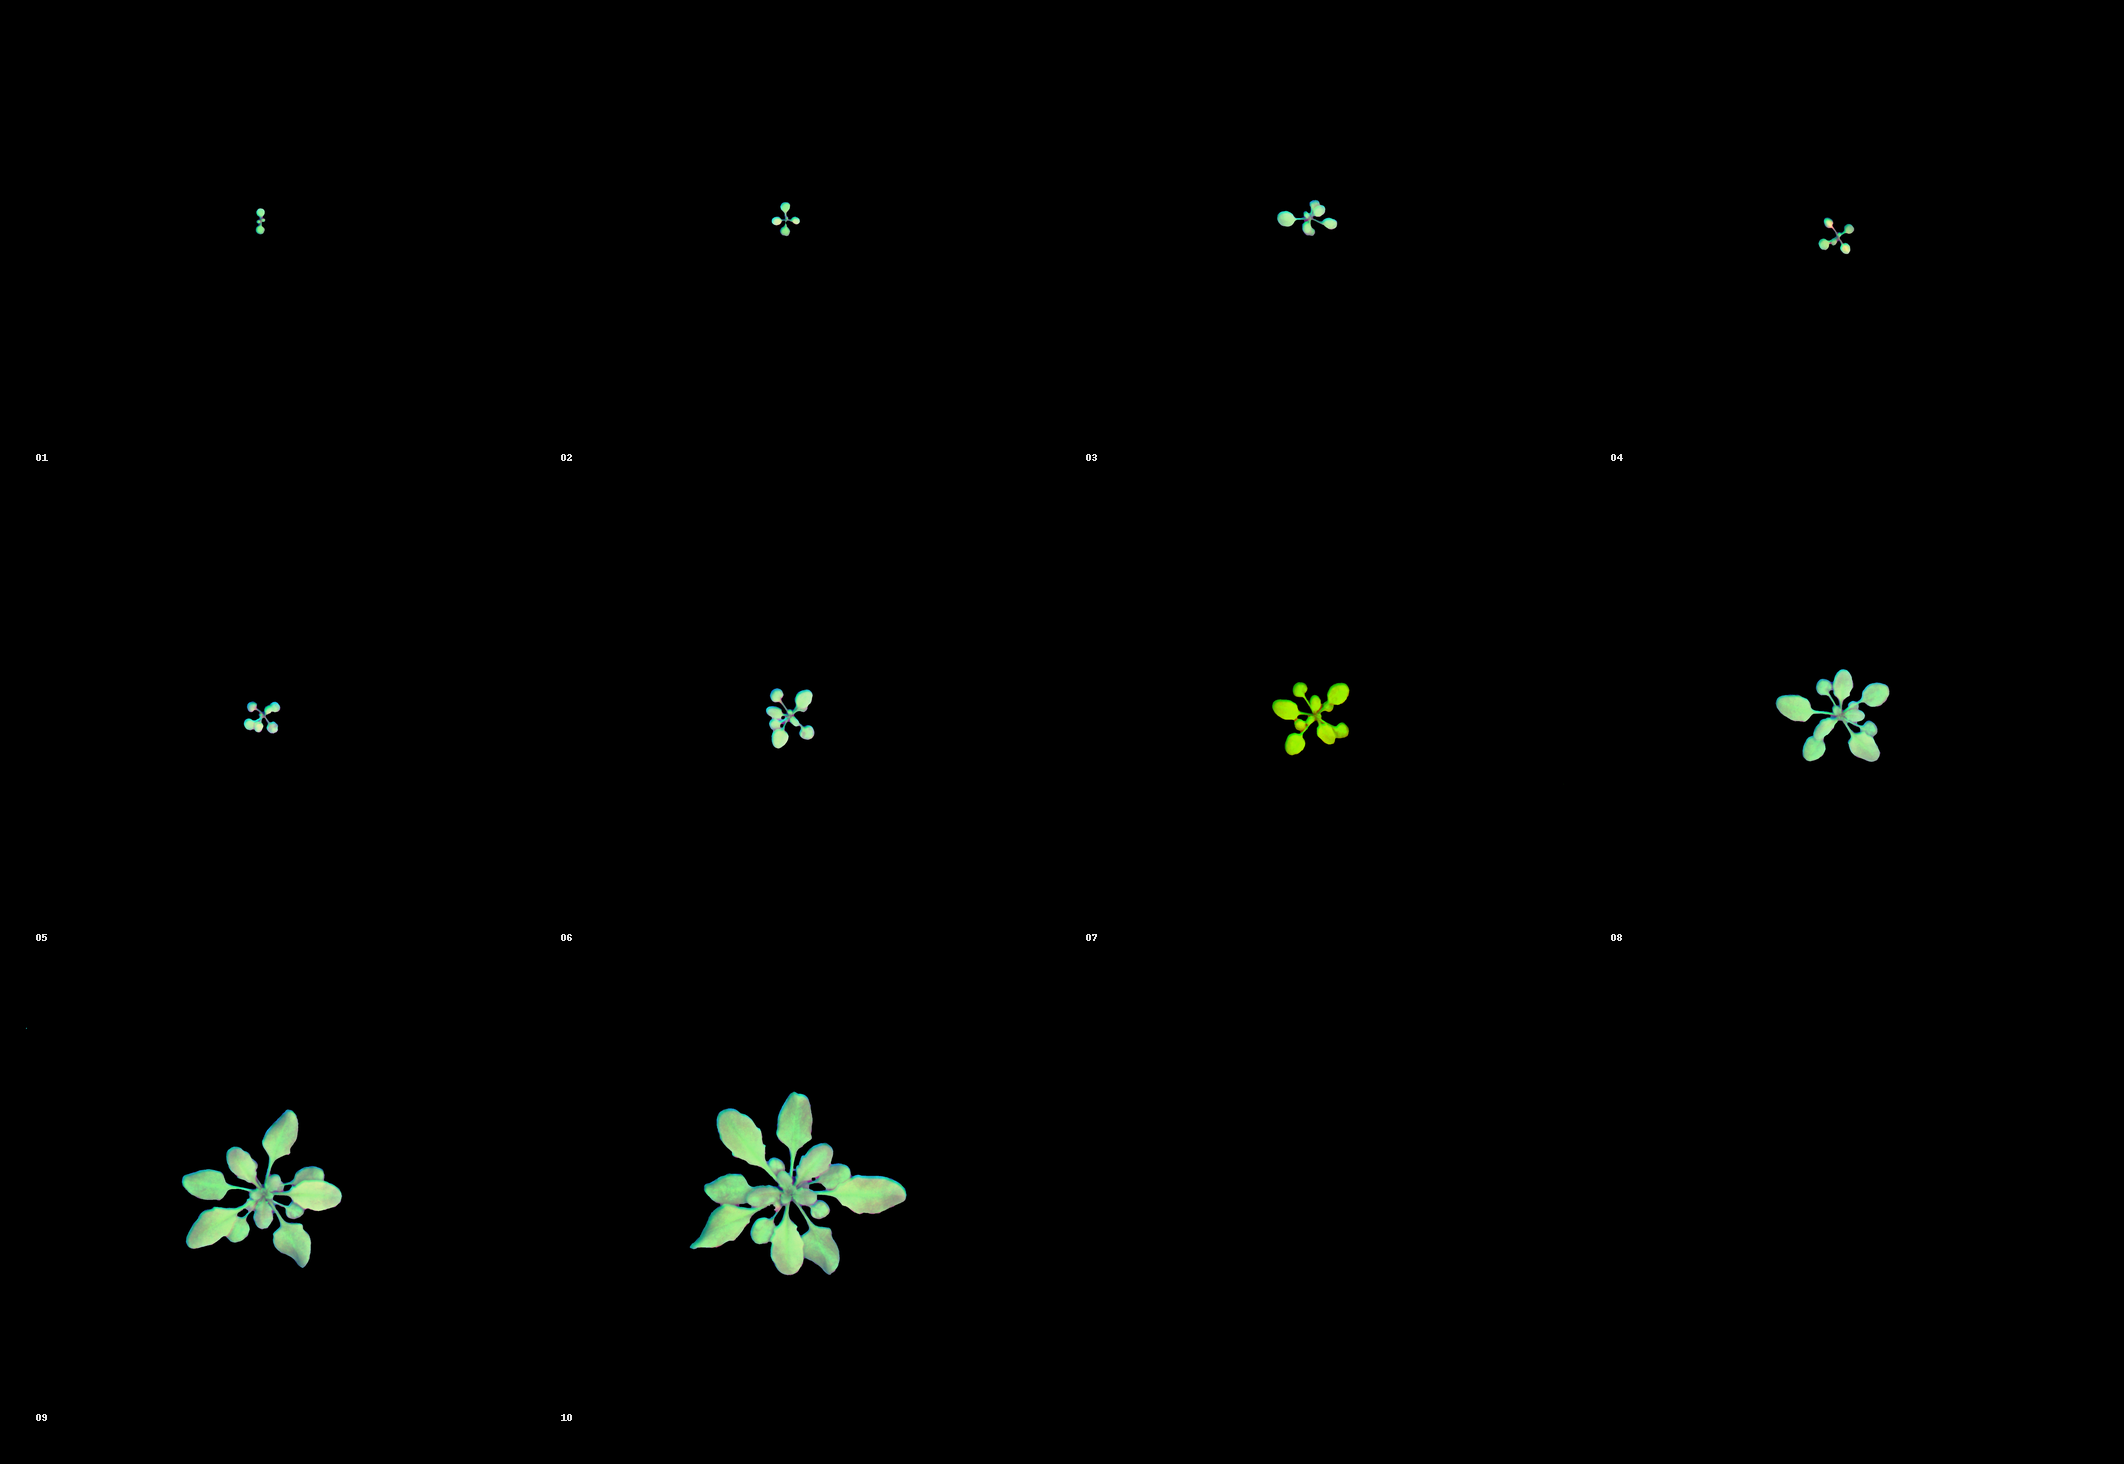
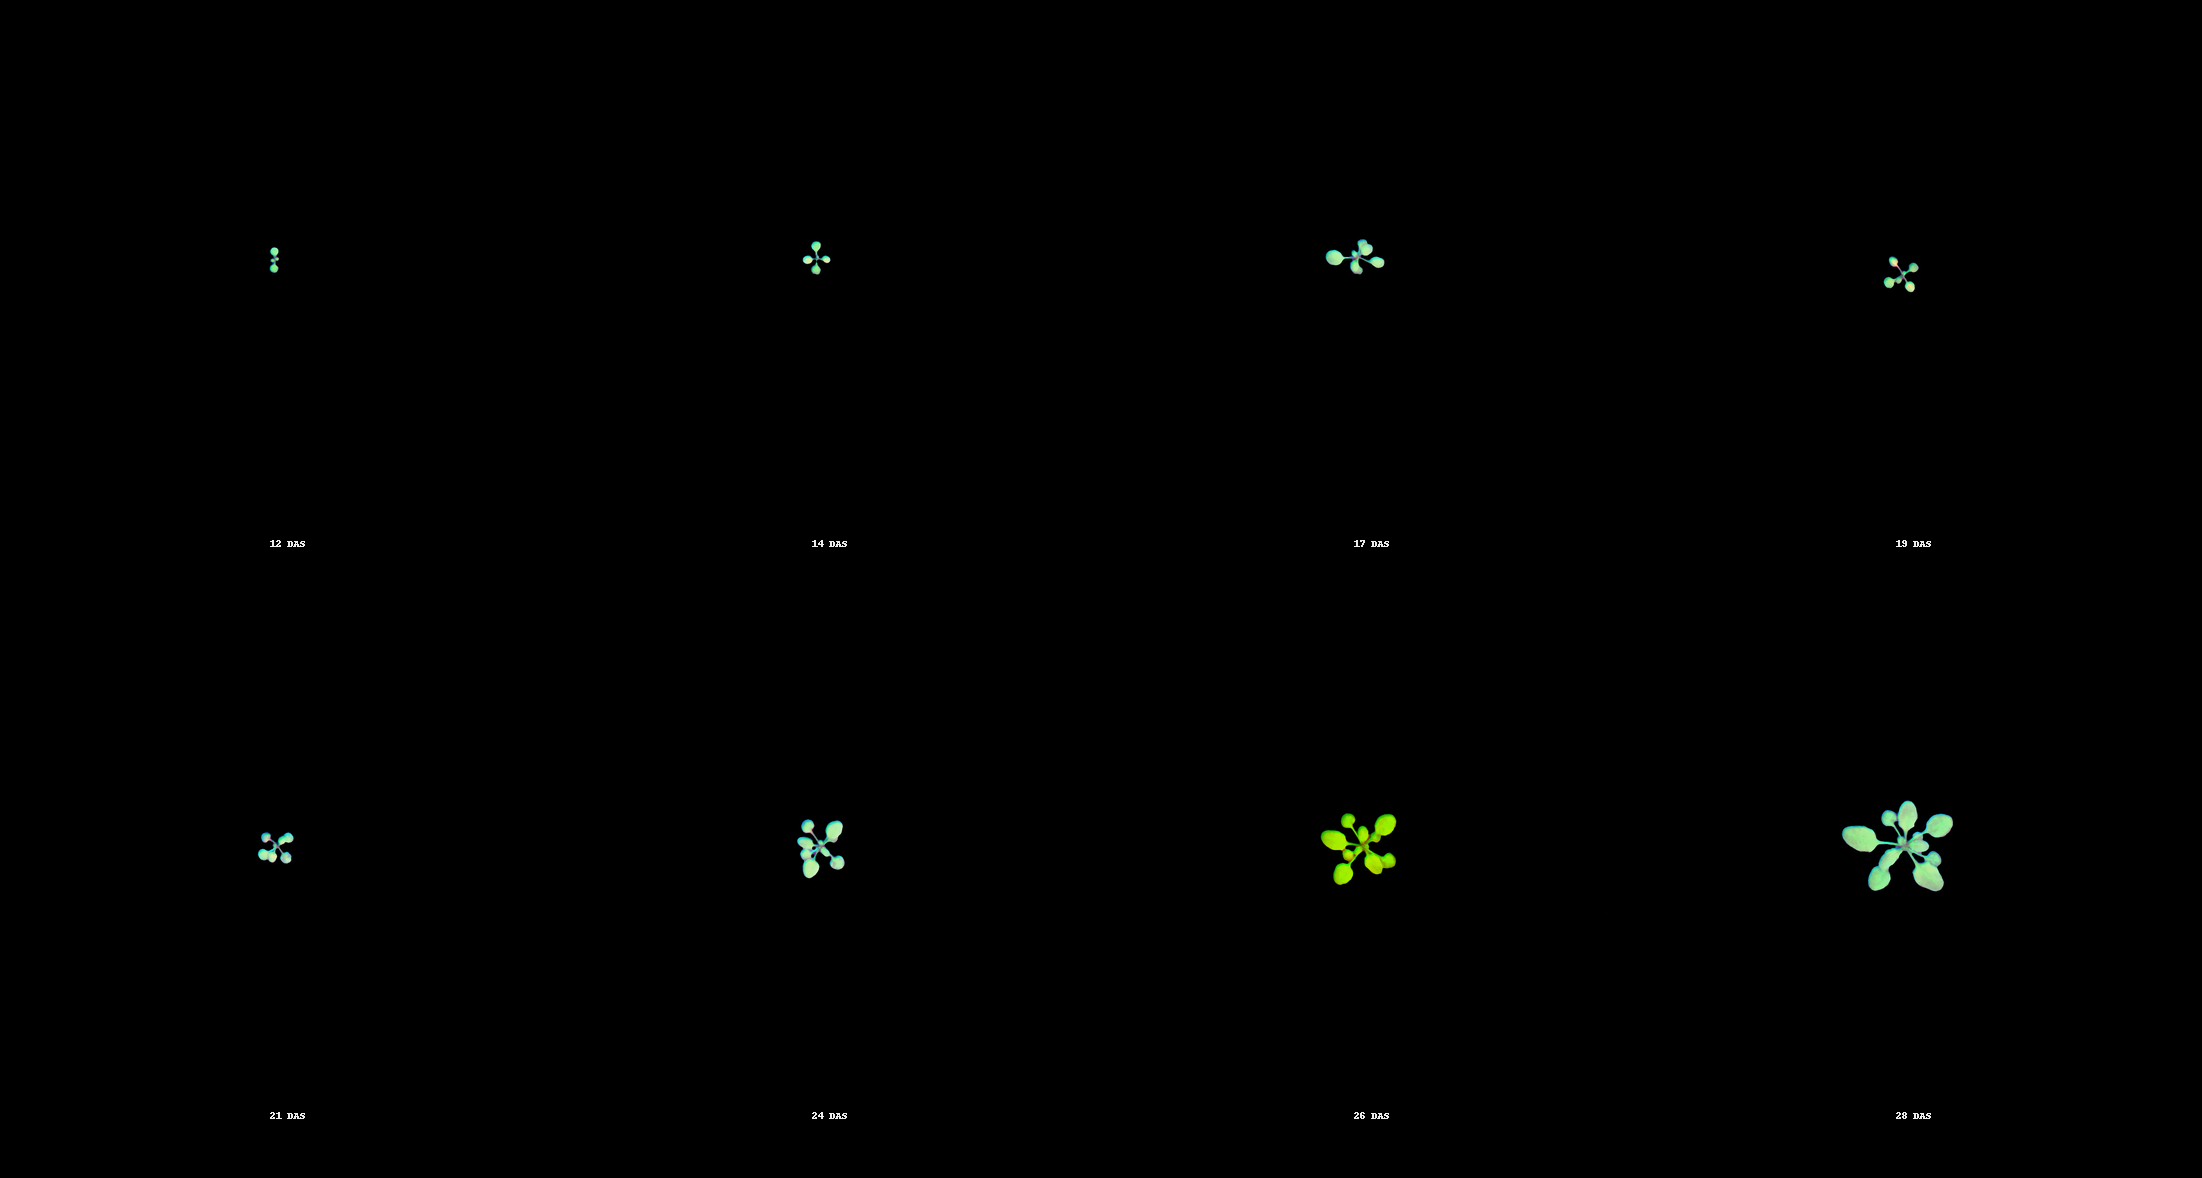
Refine multiscale microscopy showcase and scientific provenance

diff --git a/README.md b/README.md
@@ -1,58 +1,36 @@
 # PlantState4D
 
-### 3D Microscopy · Quantitative Imaging · Plant Morphology
+### From fluorescent signals to plant architecture
 
-*Exploring plant structure and development through scientific imaging.*
+*Multiscale observation of Arabidopsis structure and development through 3D microscopy, quantitative imaging and multispectral phenotyping.*
 
-**Work in progress** · MATLAB · ParaView · Python · 2026
-
----
-
-## Ovule development
-
-**Seven developmental stages | 3D fluorescence microscopy**
-
-Volumetric visualization of tissue architecture and cellular organization.
-
-![Seven stages of ovule development](assets/d02/ovules/panel/D02_ovule_development.png)
-
-### 3D rotations
-
-<table>
-  <tr>
-    <td align="center"><b>Stage 2-IV</b><br><img src="assets/d02/ovules/gif/01_Ovule_2-IV.gif" width="220"></td>
-    <td align="center"><b>Stage 2-V</b><br><img src="assets/d02/ovules/gif/02_Ovule_2-V.gif" width="220"></td>
-    <td align="center"><b>Stage 3-I</b><br><img src="assets/d02/ovules/gif/03_Ovule_3-I.gif" width="220"></td>
-    <td align="center"><b>Stage 3-II</b><br><img src="assets/d02/ovules/gif/04_Ovule_3-II.gif" width="220"></td>
-  </tr>
-  <tr>
-    <td align="center"><b>Stage 3-III</b><br><img src="assets/d02/ovules/gif/05_Ovule_3-III.gif" width="220"></td>
-    <td align="center"><b>Stage 3-IV</b><br><img src="assets/d02/ovules/gif/06_Ovule_3-IV.gif" width="220"></td>
-    <td align="center"><b>Stage 3-V</b><br><img src="assets/d02/ovules/gif/07_Ovule_3-V.gif" width="220"></td>
-    <td></td>
-  </tr>
-</table>
+**Work in progress** · MATLAB · Python · 2026
 
 ---
 
-## Root architecture
+**Observation → Reconstruction → Quantitative characterization → Biological interpretation**
 
-**3D fluorescence microscopy**
+Fluorescence microscopy and multispectral imaging provide complementary views of plant organization, from cellular structures and developing tissues to whole-plant morphology.
 
-A representative root volume rendered as a rotating 3D reconstruction.
+The visualizations emphasize what is experimentally observed, how image-derived representations are constructed, and which biological questions they can support.
 
-<p align="center">
-  <img src="assets/d02/root/gif/01_Root_Movie1_t00003.gif" width="520">
-</p>
+## 01 · Fluorescent signals and cellular organization
 
----
+### Floral meristem · Membrane and auxin-response reporters
 
+***Arabidopsis thaliana*** · Confocal fluorescence microscopy · 3D volumes
 
-## Floral meristem development
+Two fluorescent reporters provide distinct biological observables.
 
-**3D fluorescence microscopy | Arabidopsis**
+**PM · `pUBQ10::acyl:TDT`** — membrane-associated fluorescence for observing cellular and tissue organization.
+
+**DR5 · `DR5v2::n3eGFP`** — nuclear reporter of auxin-responsive transcriptional activity.
 
 ### Membrane-associated fluorescence
+
+**Three observations · T1–T3**
+
+3D renderings reveal the spatial organization of the imaged floral tissues.
 
 <table>
 <tr>
@@ -62,12 +40,12 @@ A representative root volume rendered as a rotating 3D reconstruction.
 </tr>
 </table>
 
-### Membrane and auxin-response reporters
+### Complementary fluorescence signals
 
-**T1 | PM + DR5**
+**T1 · PM + DR5**
 
 <p align="center">
-<img src="assets/d03/flower/gif/01_D03_T1_PM_DR5_overlay.gif" width="650" alt="3D exploratory overlay of PM and DR5 fluorescence">
+<img src="assets/d03/flower/gif/01_D03_T1_PM_DR5_overlay.gif" width="650" alt="Exploratory PM and DR5 fluorescence rendering">
 </p>
 
 <p align="center">
@@ -75,17 +53,66 @@ A representative root volume rendered as a rotating 3D reconstruction.
 <strong>DR5</strong> · Auxin-response reporter
 </p>
 
-*Exploratory overlay; spatial registration has not been validated. DR5 reports auxin response, not absolute auxin concentration.*
+*Exploratory dual-channel visualization. Spatial registration remains provisional; apparent signal proximity does not establish colocalization. DR5 does not directly measure auxin concentration.*
 
 ---
 
-## Leaf morphology · 3D confocal microscopy
+## 02 · Cellular architecture and developing organs
 
-**Three representative leaf volumes | PM-YFP fluorescence**
+### Ovule development
 
-![D04 leaf comparison](assets/d04/leaf/panel/D04_leaf_triptych.png)
+***Arabidopsis thaliana*** · Volumetric fluorescence microscopy · Seven annotated developmental stages
 
-### 3D rotations
+3D observations illustrate the architecture of developing ovules, including tissue boundaries and changing morphological organization.
+
+![Seven stages of ovule development](assets/d02/ovules/panel/D02_ovule_development.png)
+
+### Three-dimensional observations
+
+<table>
+<tr>
+<td align="center"><b>Stage 2-IV</b><br><img src="assets/d02/ovules/gif/01_Ovule_2-IV.gif" width="220"></td>
+<td align="center"><b>Stage 2-V</b><br><img src="assets/d02/ovules/gif/02_Ovule_2-V.gif" width="220"></td>
+<td align="center"><b>Stage 3-I</b><br><img src="assets/d02/ovules/gif/03_Ovule_3-I.gif" width="220"></td>
+<td align="center"><b>Stage 3-II</b><br><img src="assets/d02/ovules/gif/04_Ovule_3-II.gif" width="220"></td>
+</tr>
+<tr>
+<td align="center"><b>Stage 3-III</b><br><img src="assets/d02/ovules/gif/05_Ovule_3-III.gif" width="220"></td>
+<td align="center"><b>Stage 3-IV</b><br><img src="assets/d02/ovules/gif/06_Ovule_3-IV.gif" width="220"></td>
+<td align="center"><b>Stage 3-V</b><br><img src="assets/d02/ovules/gif/07_Ovule_3-V.gif" width="220"></td>
+<td></td>
+</tr>
+</table>
+
+*Developmental labels refer to the original morphological stage annotations. The animations show changes in viewpoint, not elapsed biological time.*
+
+### Root tissue architecture
+
+**3D fluorescence imaging · Spatial tissue organization**
+
+A selected root volume illustrates cellular and tissue-level architecture in three dimensions.
+
+<p align="center">
+<img src="assets/d02/root/gif/01_Root_Movie1_t00003.gif" width="520" alt="3D root fluorescence volume">
+</p>
+
+*The animation rotates a selected volume; it does not represent a time-lapse.*
+
+---
+
+## 03 · Leaf morphology and tissue geometry
+
+### Leaf epidermis · PM-YFP fluorescence
+
+***Arabidopsis thaliana*** · 3D confocal microscopy · Three representative volumes
+
+Membrane-associated fluorescence reveals aspects of tissue geometry and cellular organization.
+
+The selected volumes illustrate differences in apparent leaf size and morphology, providing a starting point for quantitative characterization of cellular geometry and organ shape.
+
+![Three representative leaf volumes](assets/d04/leaf/panel/D04_leaf_triptych.png)
+
+### Three-dimensional observations
 
 <p align="center"><strong>Small leaf</strong></p>
 <p align="center">
@@ -102,41 +129,74 @@ A representative root volume rendered as a rotating 3D reconstruction.
 <img src="assets/d04/leaf/gif/03_Leaf_Large.gif" width="750" alt="Large leaf 3D rotation">
 </p>
 
-*Individual volumetric visualizations; size labels describe the selected examples, not a validated developmental sequence.*
+*The size labels describe representative samples, not a validated longitudinal growth sequence.*
 
 ---
 
-## Multispectral sensor fusion
+## 04 · Whole-plant phenotyping and multispectral imaging
 
-**Arabidopsis · VIS / NIR / FLUO · Image-based plant phenotyping**
+### Arabidopsis · RGB(VIS), NIR and FLUO
 
-### Multispectral imaging modalities
+**IPK Gatersleben** · LemnaTec phenotyping platform · Top-view acquisition
 
-Visible, near-infrared and fluorescence observations acquired from the same plant imaging workflow.
+Three complementary imaging modalities provide distinct optical observations of plant structure and digital signal responses.
 
-![Multispectral imaging channels](assets/d01/multispectral/02_reference_modalities.png)
+**RGB(VIS)** · Visible imaging with red, green and blue channels.
 
-### Segmentation and sensor fusion
+**NIR** · Near-infrared imaging.
+
+**FLUO** · Fluorescence imaging.
+
+### Multispectral acquisition
+
+Representative observations demonstrate the complementary information available from the three imaging modalities.
+
+![Multispectral imaging modalities](assets/d01/multispectral/02_reference_modalities.png)
+
+### Image registration, segmentation and fusion
 
 **FLUO → Red · VIS → Green · NIR → Blue**
 
-![Segmentation and multispectral fusion](assets/d01/multispectral/03_reference_segmentation_fusion.png)
+Geometric registration and plant segmentation support a common visual representation of the processed multimodal observations.
+
+![Multispectral segmentation and fusion](assets/d01/multispectral/03_reference_segmentation_fusion.png)
 
 ### Digital signal distribution
 
-Channel-level digital intensity distributions across seven VIS, NIR and FLUO channels.
+**VIS-R/G/B · NIR · FLUO-R/G/B**
 
-![Digital intensity distributions of seven multispectral channels](assets/d01/multispectral/04_reference_channel_responses.png)
-### Vegetative-stage examples
+Digital intensity distributions illustrate the responses of the seven channels used for exploratory characterization.
 
-Selected vegetative Arabidopsis observations shown directly from the processed multispectral fusion outputs.
+![Digital channel distributions](assets/d01/multispectral/04_reference_channel_responses.png)
 
-![Vegetative gallery](assets/d01/multispectral/00_vegetative_gallery.png)
+### Early rosette observations · 12–28 DAS
+
+**Eight acquisitions · One plant · Three imaging modalities**
+
+Repeated top-view observations of plant `1135FA1125` illustrate changes in projected morphology over time.
+
+The labels indicate **days after sowing (DAS)**, recovered directly from the original experimental metadata.
+
+![Multispectral plant observations at 12 to 28 DAS](assets/d01/multispectral/00_vegetative_gallery.png)
+
+*The fused colors are a visualization convention, not physical spectral colors. Digital intensities are not calibrated radiance; projected morphology does not directly measure biomass. Phenological classification of the selected images remains subject to visual verification.*
 
 ---
 
-### Technical focus
+## From images to quantitative plant biology
 
-**Volumetric microscopy · Image processing · 3D rendering · fluorescence visualization · cellular morphology**
+**Geometry · Fluorescent signaling · Morphogenesis · Temporal observation**
 
-*Additional plant structures and multispectral imaging demonstrations are currently in development.*
+Across cellular, tissue, organ and whole-plant scales, these datasets illustrate complementary experimental observables.
+
+Their quantitative potential lies in connecting image-derived measurements with explicit biological questions: changes in cell and tissue geometry, spatial organization, organ morphology and plant development.
+
+Understanding relationships with mechanical stress, material properties or biochemical regulation requires additional measurements, modeling and experimental validation.
+
+The four demonstrations originate from independent datasets and do not constitute a single continuous multiscale experiment.
+
+**[Data provenance and acquisition notes](DATA_SOURCES.md)**
+
+---
+
+*Work in progress · MATLAB · Python · 2026*

diff --git a/DATA_SOURCES.md b/DATA_SOURCES.md
@@ -1,0 +1,79 @@
+# Data sources and acquisition notes
+
+This document records the established provenance and interpretation limits of the PlantState4D visual demonstrations. The images and animations are processed representations of experimental datasets.
+
+## D01 · Whole-plant multispectral phenotyping
+
+**Organism:** *Arabidopsis thaliana*
+
+**Investigation:** Quantitative Monitoring of Arabidopsis thaliana Growth and Development Using High-Throughput Plant Phenotyping.
+
+**Institution:** IPK Gatersleben, Germany.
+
+**Principal investigator identified in the investigation metadata:** Astrid Junker.
+
+**Experimental sample:** `1135FA1125`, corresponding to `plant_122` in the ISA-Tab study metadata.
+
+**Study start:** 19 August 2011.
+
+**Acquisition platform:** LemnaTec phenotyping system.
+
+**Modalities:** RGB(VIS), NIR and FLUO.
+
+**Camera configurations:** `A_Rgb_Top_Pot`, `A_Nir_Top_Pot`, `A_Fluo_Top_Pot`.
+
+**Selected top-view acquisition days:** 12, 14, 17, 19, 21, 24, 26 and 28 DAS.
+
+**Source metadata:** `i_investigation.txt`, `s_study.txt`, `a_phenotyping.txt`.
+
+**Processing manifest:** `multispectral_manifest.csv`.
+
+**Accession:** EURISCO accession 1668187 is referenced by the original study. The corresponding cultivar designation still requires independent confirmation.
+
+**Interpretation:** Digital intensities are not calibrated radiance. The displayed fusion combines FLUO, VIS and NIR for visualization. Segmented projected area is not a direct biomass measurement. Pre-flowering status of the selected frames requires visual confirmation.
+
+## D02 · Ovule and root volumes
+
+**Organism:** *Arabidopsis thaliana*.
+
+**Content:** Seven annotated ovule stages and one selected root volume.
+
+**Observation:** Volumetric fluorescence imaging of biological structures.
+
+**Outstanding verification:** Exact staining or reporter, genotype, microscope model, voxel calibration and primary dataset citations.
+
+**Interpretation:** Rotations display alternative 3D viewing angles, not biological time progression.
+
+## D03 · Floral meristem fluorescence
+
+**Organism:** *Arabidopsis thaliana*.
+
+**Membrane-associated reporter:** `pUBQ10::acyl:TDT`.
+
+**Auxin-response reporter:** `DR5v2::n3eGFP`.
+
+**Content:** Three PM observations (T1–T3) and exploratory T1 PM/DR5 dual-channel visualization.
+
+**Interpretation:** DR5 is an auxin-response reporter, not a direct measure of auxin concentration. Spatial registration between PM and DR5 remains provisional.
+
+**Outstanding verification:** Original experimental sample relationship between T1–T3 and complete acquisition metadata for the particular files.
+
+## D04 · Leaf fluorescence volumes
+
+**Organism:** *Arabidopsis thaliana*.
+
+**Fluorescent label:** PM-YFP.
+
+**Content:** Three representative volumes categorized visually as small, medium and large.
+
+**Interpretation:** These size categories do not establish a validated growth trajectory.
+
+**Outstanding verification:** Genotype, microscope model, voxel calibration, acquisition settings and complete source citation.
+
+## Scientific interpretation
+
+The examples concern different observables and acquisition contexts: fluorescent reporter activity, membrane-associated fluorescence, tissue architecture and whole-plant optical imaging.
+
+Morphological data alone do not establish mechanical forces, biochemical concentrations or causal developmental mechanisms.
+
+Original publications, attribution requirements and reuse permissions should be verified against each source dataset.
